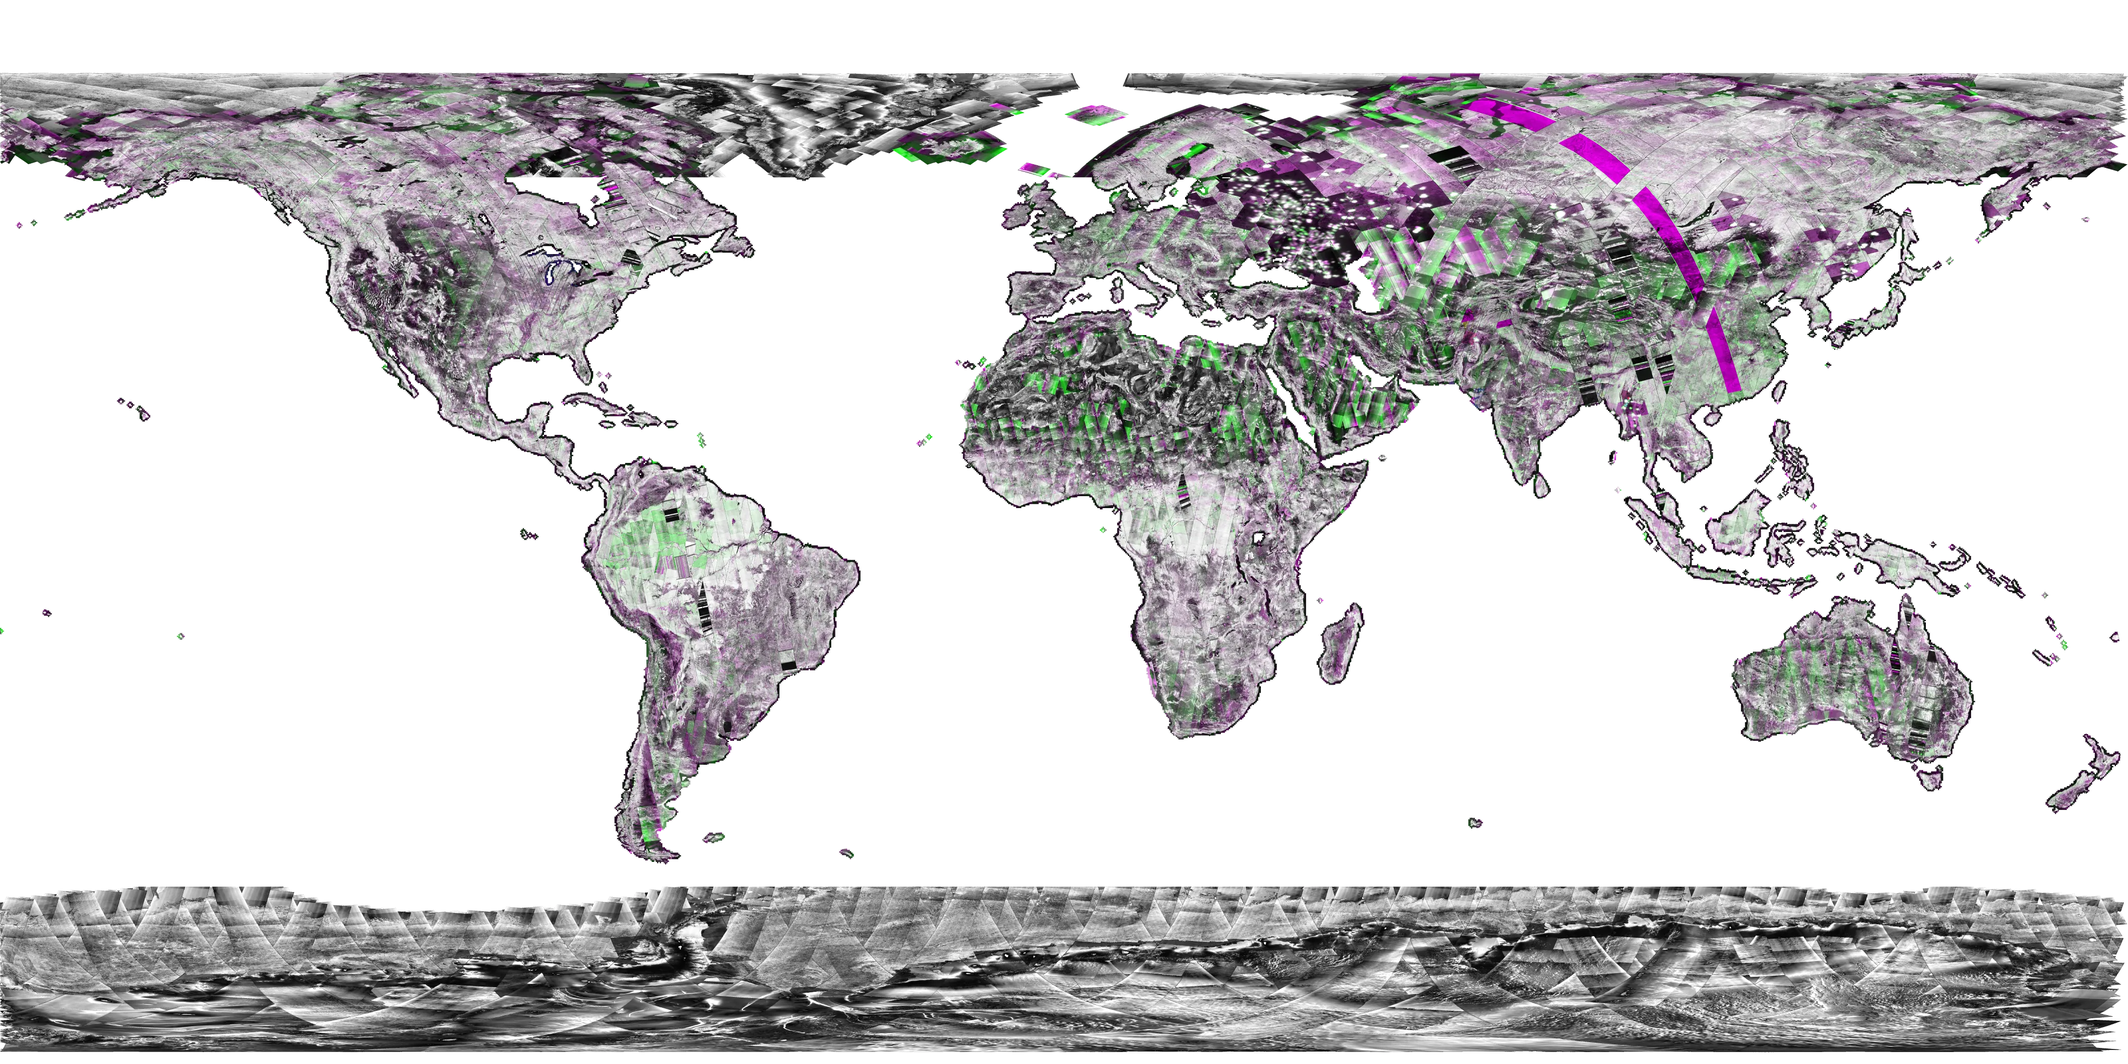
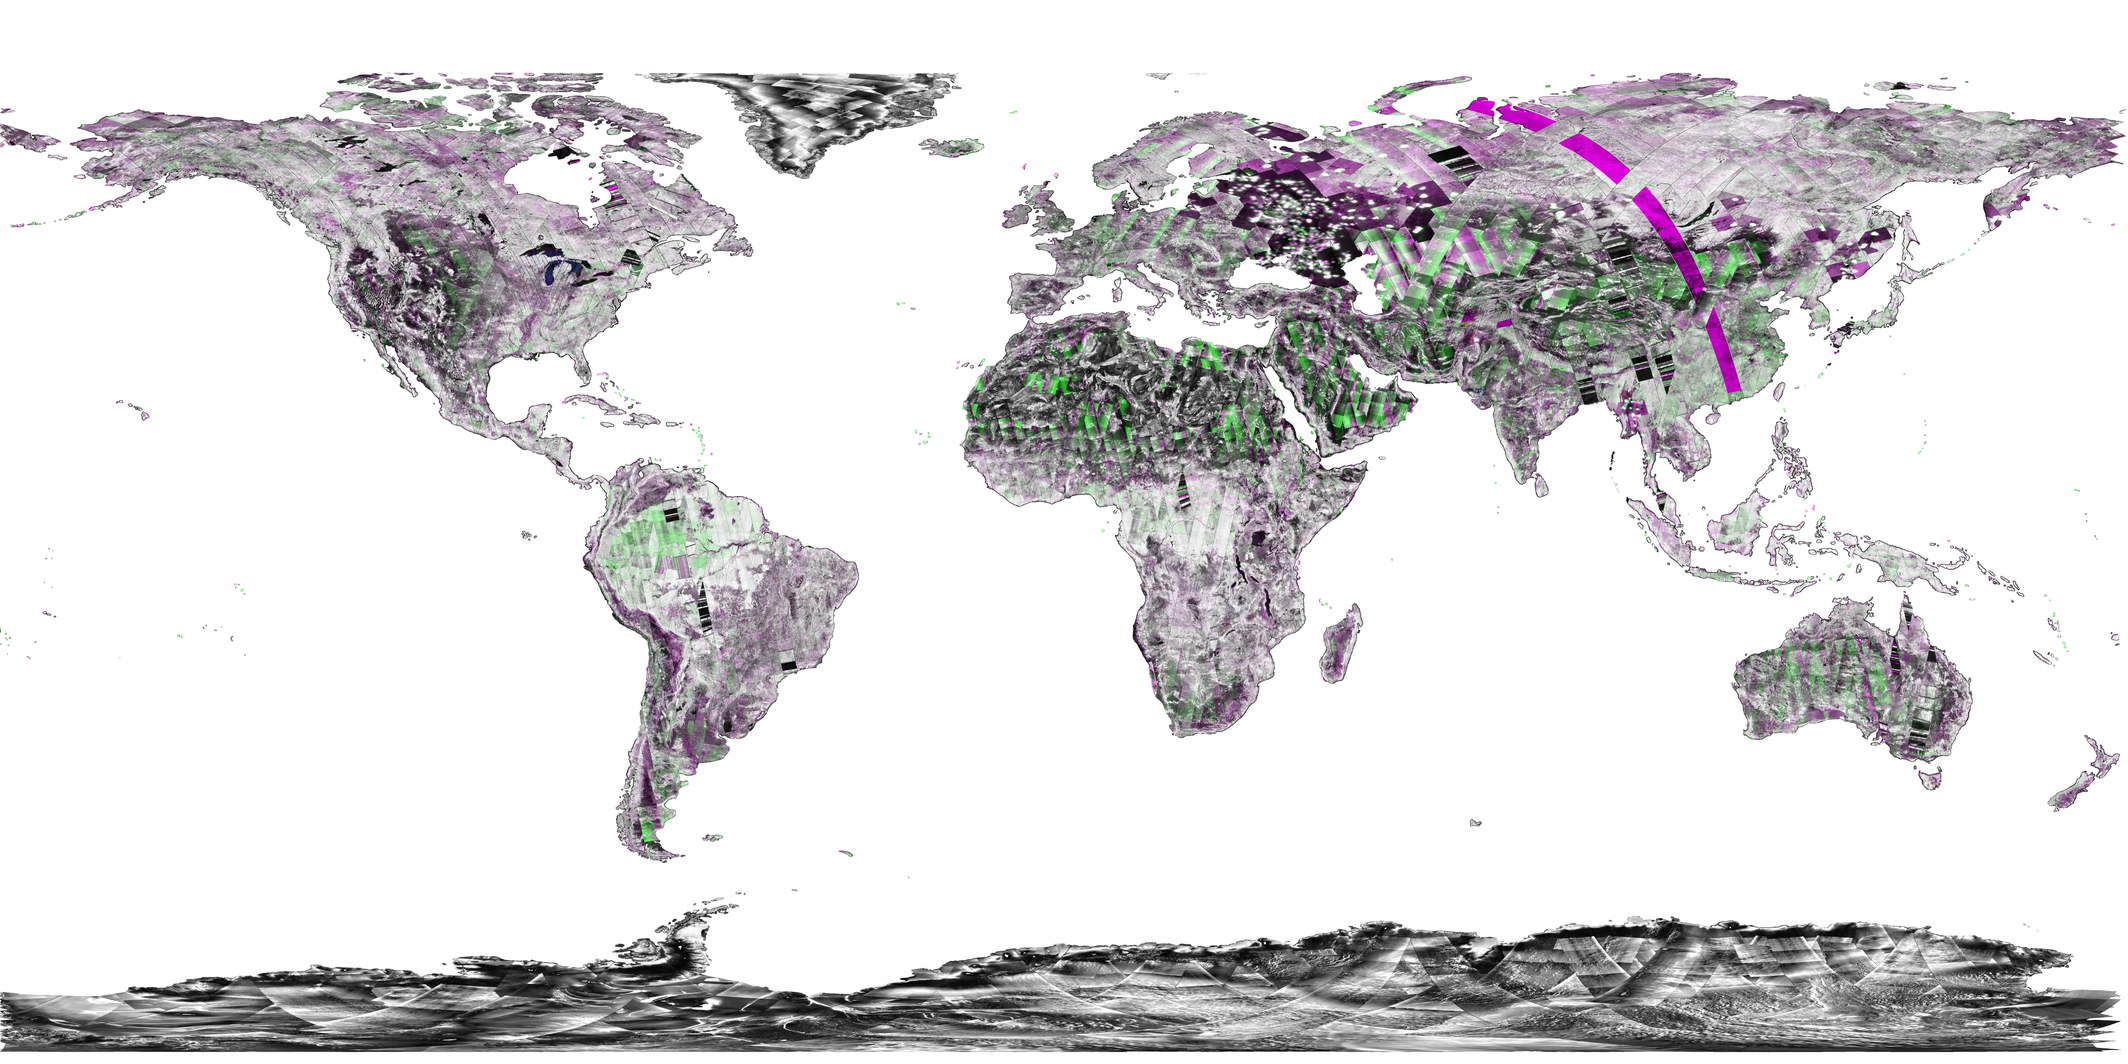
Fix globe at the poles, optimise rendering, add challenge resources
Mosaics (all 6 cycles rebuilt from the cache):
- Natural Earth 1:50m land + Antarctic ice-shelf mask (~3 km) replaces the
  coarse 25 km water mask; sea-ice/ocean noise around the poles is gone
- frames crossing the antimeridian are unwrapped and painted with wrap-around
  instead of being skipped (closes the seam to the poles, +~1,000 frames)
- land mask applied in place (avoids a 400 MB copy that hit the OOM killer)

Globe:
- denser globe mesh and maximum anisotropic filtering on the base, mosaic
  and frame textures (no radial streaks at the poles)
- pixel ratio capped at 1.5; rendering paused while a page covers the globe
  or the tab is hidden
- satellite and trail are plain three.js objects updated in place instead
  of rebuilding the objects/paths layers 8x per second

Content: challenge resources and partner SAR missions on the data page;
per-theme 'Learn more' links (NISAR StoryMaps, white papers, ARSET).

Claude-Session: https://claude.ai/code/session_01725WYVREKarQcBASVQ1Gx9

diff --git a/web/src/globe.js b/web/src/globe.js
@@ -23,8 +23,9 @@ export class GlobeView {
     this.loader = new THREE.TextureLoader();
     this.selected = null;
 
-    this.globe = new Globe(el, { rendererConfig: { antialias: true, alpha: true } })
+    this.globe = new Globe(el, { rendererConfig: { antialias: true, alpha: true, powerPreference: 'high-performance' } })
       .backgroundColor('rgba(0,0,0,0)')
+      .globeCurvatureResolution(2)          // denser globe mesh: less pinching near the poles
       .globeImageUrl(base + 'textures/earth-blue-marble.jpg')
       .bumpImageUrl(base + 'textures/earth-topology.png')
       .showAtmosphere(true)
@@ -49,14 +50,6 @@ export class GlobeView {
       .polygonStrokeColor(() => 'rgba(125,211,252,0.55)')
       .polygonAltitude(0.004)
       .polygonsTransitionDuration(0)
-      // satellite + orbit trail
-      .objectLat('lat').objectLng('lng').objectAltitude('alt')
-      .objectThreeObject(() => this._satelliteModel())
-      .objectLabel(() => '<div class="tip"><b>NISAR</b><br>NASA–ISRO SAR · 747 km sun-synchronous orbit<br>L-band 24 cm + S-band 10 cm · 12-day repeat</div>')
-      .pathPoints('pts').pathPointLat((p) => p[0]).pathPointLng((p) => p[1]).pathPointAlt((p) => p[2])
-      .pathColor(() => ['rgba(232,176,74,0)', 'rgba(232,176,74,0.85)'])
-      .pathStroke(1.2)
-      .pathTransitionDuration(0)
       // natural events (NASA EONET)
       .pointLat('lat').pointLng('lon').pointAltitude(0.006).pointRadius(0.35)
       .pointColor((d) => d.color)
@@ -69,6 +62,13 @@ export class GlobeView {
     const mat = this.globe.globeMaterial();
     mat.bumpScale = 6;
     mat.shininess = 8;
+    const renderer = this.globe.renderer();
+    renderer.setPixelRatio(Math.min(window.devicePixelRatio || 1, 1.5));   // retina at 1.5x: ~45 % fewer pixels than 2x
+    this.maxAniso = renderer.capabilities.getMaxAnisotropy();
+    // sharp textures at grazing angles and near the poles (less smearing / radial streaks)
+    this.globe.onGlobeReady(() => {
+      for (const m of [mat.map, mat.bumpMap]) if (m) { m.anisotropy = this.maxAniso; m.needsUpdate = true; }
+    });
     this.globe.controls().autoRotate = true;
     this.globe.controls().autoRotateSpeed = 0.25;
     this.globe.controls().enableDamping = true;
@@ -83,7 +83,20 @@ export class GlobeView {
 
     el.addEventListener('pointerdown', () => { this.globe.controls().autoRotate = false; });
     this.satT0 = performance.now();
+    this._buildSatellite();
     this._animate();
+    document.addEventListener('visibilitychange', () => (document.hidden ? this.pause() : this.resume()));
+  }
+
+  /** Stop rendering while the globe is hidden (page in front, tab in background). */
+  pause() {
+    if (this.paused) return;
+    this.paused = true; this.globe.pauseAnimation();
+  }
+
+  resume() {
+    if (!this.paused || document.hidden || document.body.classList.contains('sheet-open')) return;
+    this.paused = false; this.globe.resumeAnimation();
   }
 
   setSites(sites) {
@@ -106,7 +119,7 @@ export class GlobeView {
     this.canBig = window.innerWidth > 800 && gl.getParameter(gl.MAX_TEXTURE_SIZE) >= 8192;
     this.mosTex = new Map(); // url -> texture (LRU)
     const r = this.globe.getGlobeRadius() * 1.0012;
-    const geo = new THREE.SphereGeometry(r, 180, 90, (90 - 180) * DEG, 2 * Math.PI, 0, Math.PI);
+    const geo = new THREE.SphereGeometry(r, 256, 128, (90 - 180) * DEG, 2 * Math.PI, 0, Math.PI);
     this.mosaic = new THREE.Mesh(geo, new THREE.MeshBasicMaterial({ transparent: true, depthWrite: false, opacity: 0.92 }));
     this.mosaic.renderOrder = 1;
     this.mosaic.visible = false;
@@ -130,7 +143,7 @@ export class GlobeView {
     }
     this.loader.load(url, (tex) => {
       tex.colorSpace = THREE.SRGBColorSpace;
-      tex.anisotropy = 8;
+      tex.anisotropy = this.maxAniso;
       this.mosTex.set(url, tex);
       while (this.mosTex.size > 4) {
         const [k, old] = this.mosTex.entries().next().value;
@@ -170,7 +183,7 @@ export class GlobeView {
     if (name === 'night') this.globe.globeImageUrl(this.base + (on ? 'textures/earth-night.jpg' : 'textures/earth-blue-marble.jpg'));
     if (name === 'frames') this.frameGroup.visible = on;
     if (name === 'mosaic' && this.mosaic) this._showMosaic(this.date || new Date());
-    if (name === 'satellite' && !on) { this.globe.objectsData([]); this.globe.pathsData([]); }
+    if (name === 'satellite') this.satGroup.visible = on;
     this.update(this.date, true);
   }
 
@@ -250,7 +263,7 @@ export class GlobeView {
     if (this.texCache.has(url)) apply(this.texCache.get(url));
     else this.loader.load(url, (tex) => {
       tex.colorSpace = THREE.SRGBColorSpace;
-      tex.anisotropy = 4;
+      tex.anisotropy = this.maxAniso;
       this.texCache.set(url, tex);
       apply(tex);
     });
@@ -289,27 +302,45 @@ export class GlobeView {
     return g;
   }
 
+  /** Satellite and its trail as plain three.js objects, updated in place (no layer rebuild per frame). */
+  _buildSatellite() {
+    this.satGroup = new THREE.Group();
+    this.sat = this._satelliteModel();
+    this.sat.scale.setScalar(0.9);
+    this.satGroup.add(this.sat);
+    this.trailN = 60;
+    const pos = new Float32Array(this.trailN * 3), col = new Float32Array(this.trailN * 3);
+    for (let i = 0; i < this.trailN; i++) {             // fade from transparent-looking dark to amber
+      const k = i / (this.trailN - 1);
+      col.set([0.91 * k, 0.69 * k, 0.29 * k], i * 3);
+    }
+    const geo = new THREE.BufferGeometry();
+    geo.setAttribute('position', new THREE.BufferAttribute(pos, 3));
+    geo.setAttribute('color', new THREE.BufferAttribute(col, 3));
+    this.trail = new THREE.Line(geo, new THREE.LineBasicMaterial({ vertexColors: true, transparent: true, blending: THREE.AdditiveBlending, depthWrite: false }));
+    this.trail.frustumCulled = false;
+    this.satGroup.add(this.trail);
+    this.globe.scene().add(this.satGroup);
+  }
+
   _animate() {
+    const v = new THREE.Vector3();
     const tick = () => {
       requestAnimationFrame(tick);
-      if (!this.layers.satellite) return;
-      const now = performance.now();
-      if (now - (this._lastSat || 0) < 120) return;
-      this._lastSat = now;
-      // Accelerated circular orbit model: 1 real second = 1 orbital minute
-      const tMin = (now - this.satT0) / 1000;
-      const pos = (tm) => orbitLatLng(tm);
-      const p = pos(tMin);
-      const trail = [];
-      for (let k = 40; k >= 0; k--) { const q = pos(tMin - k * 0.9); trail.push([q.lat, q.lng, q.alt]); }
-      // split trail at the antimeridian
-      const segs = [[]];
-      for (let i = 0; i < trail.length; i++) {
-        if (i && Math.abs(trail[i][1] - trail[i - 1][1]) > 180) segs.push([]);
-        segs[segs.length - 1].push(trail[i]);
+      if (this.paused || !this.layers.satellite) return;
+      // accelerated circular orbit model: 1 real second = 1 orbital minute
+      const tMin = (performance.now() - this.satT0) / 1000;
+      const p = orbitLatLng(tMin);
+      const c = this.globe.getCoords(p.lat, p.lng, p.alt);
+      this.sat.position.set(c.x, c.y, c.z);
+      this.sat.lookAt(0, 0, 0);
+      const arr = this.trail.geometry.attributes.position.array;
+      for (let i = 0; i < this.trailN; i++) {
+        const q = orbitLatLng(tMin - (this.trailN - 1 - i) * 0.6);
+        const cc = this.globe.getCoords(q.lat, q.lng, q.alt);
+        v.set(cc.x, cc.y, cc.z); arr[i * 3] = v.x; arr[i * 3 + 1] = v.y; arr[i * 3 + 2] = v.z;
       }
-      this.globe.objectsData([p]);
-      this.globe.pathsData(segs.filter((s) => s.length > 1).map((pts) => ({ pts })));
+      this.trail.geometry.attributes.position.needsUpdate = true;
     };
     tick();
   }

diff --git a/web/src/pages/static.js b/web/src/pages/static.js
@@ -177,6 +177,28 @@ export function renderData(sheet) {
           </ul>
         </div>
         <div class="panel">
+          <h3>Challenge resources</h3>
+          <table class="t">
+            <tr><th>Resource</th><th>What it gives you</th></tr>
+            <tr><td><a href="https://search.asf.alaska.edu/" target="_blank" rel="noopener">ASF Vertex</a></td><td>NASA's SAR archive; every NISAR product used here (GCOV, GUNW, GOFF).</td></tr>
+            <tr><td><a href="https://search.earthdata.nasa.gov/search" target="_blank" rel="noopener">NASA Earthdata Search</a></td><td>Search all NASA Earth data (NISAR, optical, GPM rainfall, SMAP soil moisture…).</td></tr>
+            <tr><td><a href="https://nisar-docs.asf.alaska.edu/" target="_blank" rel="noopener">NISAR Data User Guide</a></td><td>Product formats, access and processing for NISAR.</td></tr>
+            <tr><td><a href="https://www.earthdata.nasa.gov/learn/earth-observation-data-basics/sar" target="_blank" rel="noopener">Intro to SAR</a> · <a href="https://www.earthdata.nasa.gov/learn/earth-observation-data-basics/remote-sensing" target="_blank" rel="noopener">Intro to remote sensing</a></td><td>Wavelength, polarization, scattering, resolution.</td></tr>
+            <tr><td><a href="https://appliedsciences.nasa.gov/get-involved/training" target="_blank" rel="noopener">NASA ARSET trainings</a></td><td>Free courses on SAR and NISAR for disasters, agriculture, water and ecosystems.</td></tr>
+            <tr><td><a href="https://nisar.jpl.nasa.gov/applications/arcgis-storymaps/" target="_blank" rel="noopener">NISAR StoryMaps</a></td><td>Floods, wildfires, land subsidence, oil slicks and glacier motion, explained with SAR.</td></tr>
+            <tr><td><a href="https://nisar.jpl.nasa.gov/applications/societal-benefit/" target="_blank" rel="noopener">NISAR applications white papers</a></td><td>Two-page summaries of NISAR's societal applications.</td></tr>
+            <tr><td><a href="https://uavsar.jpl.nasa.gov/education/postcards.html" target="_blank" rel="noopener">UAVSAR postcards</a></td><td>Airborne L-band false-colour examples, the same colour logic as this site's radar images.</td></tr>
+          </table>
+          <h3 style="margin-top:14px">Other SAR missions (partner agencies)</h3>
+          <table class="t">
+            <tr><th>Mission</th><th>Band</th><th>Access</th></tr>
+            <tr><td><a href="https://donnees-data.asc-csa.gc.ca/en/dataset/rcm" target="_blank" rel="noopener">RADARSAT Constellation (CSA)</a></td><td>C</td><td>maritime, ice, disasters, ecosystems; registration</td></tr>
+            <tr><td><a href="https://donnees-data.asc-csa.gc.ca/en/dataset/radarsat1" target="_blank" rel="noopener">RADARSAT-1 archive (CSA)</a></td><td>C</td><td>1995–2013, open licence: decades of history before NISAR</td></tr>
+            <tr><td><a href="https://catalogos.conae.gov.ar/catalogo/catalogoSatSaocomInfo.html" target="_blank" rel="noopener">SAOCOM (CONAE)</a></td><td>L</td><td>same wavelength as NISAR; strong over Argentina, where YieldSAT has fields; ONE CLICK registration</td></tr>
+          </table>
+          <p class="note">These archives need an account, so they are linked here rather than built into the site. <a href="https://github.com/asc-csa/Synthetic_Aperture_Radar_Tutorial" target="_blank" rel="noopener">CSA's SAR Python tutorial</a> shows how to work with them.</p>
+        </div>
+        <div class="panel">
           <h3>Run it yourself</h3>
 <pre>pip install -r pipeline/requirements.txt
 python pipeline/build_data.py     # GCOV, ~10 min

diff --git a/web/src/pages/site.js b/web/src/pages/site.js
@@ -125,6 +125,18 @@ const CAPS = {
   wildfire: [['Burn scar extent (HV loss)', 'Regrowth over years', 'Snow onset'], ['Burn severity (with optical dNBR)', 'Carbon released'], ['Smoke and air quality']],
 };
 
+const STORYMAPS = 'https://nisar.jpl.nasa.gov/applications/arcgis-storymaps/';
+const LEARN = {
+  flood: [['NISAR StoryMap: floods', STORYMAPS]],
+  wetland: [['NISAR StoryMap: floods and wetlands', STORYMAPS]],
+  wildfire: [['NISAR StoryMap: wildfires', STORYMAPS]],
+  groundwater: [['NISAR StoryMap: land subsidence', STORYMAPS]],
+  agriculture: [['NISAR StoryMap: land subsidence', STORYMAPS], ['UAVSAR postcards: crops in L-band false colour', 'https://uavsar.jpl.nasa.gov/education/postcards.html']],
+  volcano: [['NISAR StoryMap: land deformation', STORYMAPS]],
+  glacier: [['NISAR StoryMap: glacier motion', STORYMAPS]],
+  deforestation: [['UAVSAR postcards: forests in L-band false colour', 'https://uavsar.jpl.nasa.gov/education/postcards.html']],
+};
+
 function overview(el) {
   const st = STORIES[S.site.id] || {};
   const th = themeOf(S.site);
@@ -175,6 +187,9 @@ function overview(el) {
         </div>
       </div>
       <div class="panel" style="border-left:3px solid ${th.color}"><h3>Next for NISAR</h3><p class="muted" style="margin:0">${st.future || ''}</p></div>
+      <div class="panel"><h3>Learn more</h3><ul class="plain small">${(LEARN[st.theme] || []).map(([t, u]) => `<li><a href="${u}" target="_blank" rel="noopener">${t}</a></li>`).join('')}
+        <li><a href="https://nisar.jpl.nasa.gov/applications/societal-benefit/" target="_blank" rel="noopener">NISAR applications white papers</a></li>
+        <li><a href="https://appliedsciences.nasa.gov/get-involved/training" target="_blank" rel="noopener">NASA ARSET trainings on SAR and NISAR</a></li></ul></div>
     </div>
   </div>`;
   // render the thumbnails as proper colour composites (the PNGs store HH/HV in R/G)

diff --git a/web/src/main.js b/web/src/main.js
@@ -36,6 +36,7 @@ async function boot() {
 
   app.globe = new GlobeView($('#globeViz'), { base: BASE, onSiteClick: (s) => go(`#/site/${s.id}`) });
   app.globe.setSites(app.sites);
+  window.__pov = (lat, lng, altitude = 1.8) => { app.globe.globe.controls().autoRotate = false; app.globe.globe.pointOfView({ lat, lng, altitude }); };   // debugging / screenshots
   app.globe.setCoverage(coverage);
   if (mosaic.cycles.length) app.globe.setMosaics(mosaic.cycles);
   else $('#mosaicLayer').style.display = 'none';
@@ -100,11 +101,13 @@ function route() {
 
 function openSheet() {
   document.body.classList.add('sheet-open');
+  app.globe.pause();                 // the globe is hidden behind the page: stop rendering it
   if (app.tl.playing) togglePlay();
 }
 function closeSheet() {
   closeSitePage();
   document.body.classList.remove('sheet-open');
+  app.globe.resume();
   $('#sheet').innerHTML = '';
   $$('.rail-item').forEach((b) => b.classList.remove('on'));
   app.globe.blur();

diff --git a/pipeline/build_mosaic.py b/pipeline/build_mosaic.py
@@ -8,6 +8,9 @@ georeferenced from the granule footprint, shrunk to the mosaic resolution and
 painted into one global equirectangular canvas. The full-size PNG is discarded
 right away, so disk use stays small even though ~60 GB is streamed.
 
+Open ocean and sea ice are masked with Natural Earth land + ice-shelf polygons.
+Frames that cross the antimeridian are wrapped around.
+
 Painting order (later wins): other polarization modes first, then dual-pol
 HH/HV ("DH..."), each in acquisition-time order, so the mosaic shows the most
 recent dual-pol view wherever one exists.
@@ -82,8 +85,10 @@ def list_granules(t0: str, t1: str):
         except (KeyError, IndexError, TypeError, ValueError):
             continue
         lats, lons = nums[0::2], nums[1::2]
-        if not png or max(lons) - min(lons) > 180:
-            continue  # no browse, or crosses the antimeridian
+        if not png:
+            continue
+        if max(lons) - min(lons) > 180:   # crosses the antimeridian: unwrap to one side (> 180°)
+            lons = [x + 360 if x < 0 else x for x in lons]
         parts = e["title"].split("_")
         mode = parts[9] if len(parts) > 9 else ""
         gs.append({"id": e["title"], "png": png, "lats": lats, "lons": lons, "time": e["time_start"],
@@ -141,6 +146,48 @@ def shrink(g):
     return g, round(x0), round(y0), rgba
 
 
+def paint(canvas, rgba, x0, y0):
+    """Paste a patch, wrapping around the antimeridian (x is periodic)."""
+    ph, pw = rgba.shape[:2]
+    ys0, ys1 = max(0, y0), min(H, y0 + ph)
+    if ys1 <= ys0:
+        return
+    for shift in (0, -W, W):
+        xa = x0 + shift
+        xs0, xs1 = max(0, xa), min(W, xa + pw)
+        if xs1 <= xs0:
+            continue
+        sub = rgba[ys0 - y0:ys1 - y0, xs0 - xa:xs1 - xa]
+        m = sub[..., 3] > 0
+        canvas[ys0:ys1, xs0:xs1][m] = sub[m]
+
+
+NE = 'https://raw.githubusercontent.com/nvkelso/natural-earth-vector/master/geojson/'
+
+
+def land_mask(dilate_px=3):
+    """Land + Antarctic ice shelves (Natural Earth 1:50m) rasterised on the mosaic grid, cached."""
+    from PIL import ImageDraw, ImageFilter
+    path = ROOT / 'pipeline' / '.cache' / f'landmask_{RES}_{dilate_px}.png'
+    if path.exists():
+        return np.asarray(Image.open(path)) > 0
+    img = Image.new('L', (W, H), 0)
+    draw = ImageDraw.Draw(img)
+    for name in ('ne_50m_land.geojson', 'ne_50m_antarctic_ice_shelves_polys.geojson'):
+        gj = json.loads(get(NE + name)[0])
+        for f in gj['features']:
+            g = f['geometry']
+            polys = g['coordinates'] if g['type'] == 'MultiPolygon' else [g['coordinates']]
+            for poly in polys:
+                for k, ring in enumerate(poly):
+                    pts = [((lo + 180) / RES, (90 - la) / RES) for lo, la in ring]
+                    draw.polygon(pts, fill=255 if k == 0 else 0)
+    if dilate_px:
+        img = img.filter(ImageFilter.MaxFilter(2 * dilate_px + 1))
+    img.save(path)
+    return np.asarray(img) > 0
+
+
 def main():
     ap = argparse.ArgumentParser()
     ap.add_argument("--start", default="2026-10-01")
@@ -180,30 +227,14 @@ def main():
                 if rgba is None:
                     fails += 1
                     continue
-                ph, pw = rgba.shape[:2]
-                ys0, xs0 = max(0, y0), max(0, x0)
-                ys1, xs1 = min(H, y0 + ph), min(W, x0 + pw)
-                if ys1 <= ys0 or xs1 <= xs0:
-                    continue
-                sub = rgba[ys0 - y0:ys1 - y0, xs0 - x0:xs1 - x0]
-                m = sub[..., 3] > 0
-                canvas[ys0:ys1, xs0:xs1][m] = sub[m]
+                paint(canvas, rgba, x0, y0)
                 done += 1
                 if done % 250 == 0:
                     el = time.time() - t0
                     print(f"   {done}/{len(gs)} painted · {el / 60:.1f} min · eta {el / done * (len(gs) - done) / 60:.0f} min", flush=True)
 
-    # open ocean is mostly noise in L-band browse images: keep land (+~50 km coast) and polar seas (sea ice)
-    wm = ROOT / "web" / "public" / "textures" / "earth-water.png"
-    if wm.exists():
-        water = np.asarray(Image.open(wm).convert("L")) > 128
-        landm = ~water
-        for _ in range(2):  # dilate the coarse land mask
-            landm = landm | np.roll(landm, 1, 0) | np.roll(landm, -1, 0) | np.roll(landm, 1, 1) | np.roll(landm, -1, 1)
-        keep = np.asarray(Image.fromarray(landm.astype(np.uint8) * 255).resize((W, H), Image.NEAREST)) > 0
-        lat = 90 - (np.arange(H) + 0.5) * RES
-        keep |= (np.abs(lat) > 60)[:, None]
-        canvas[..., 3] = np.where(keep, canvas[..., 3], 0)
+    # open ocean and sea ice are mostly noise in L-band browse images: keep land, ice sheets and ice shelves (+~8 km of coast)
+    np.multiply(canvas[..., 3], land_mask(), out=canvas[..., 3], casting='unsafe')   # in place: no extra 400 MB copy
     land = canvas[..., 3] > 0
     print(f"   painted {done}, failed {fails}, covered {land.mean() * 100:.1f}% of the globe grid")
     out = OUT / "mosaic"
